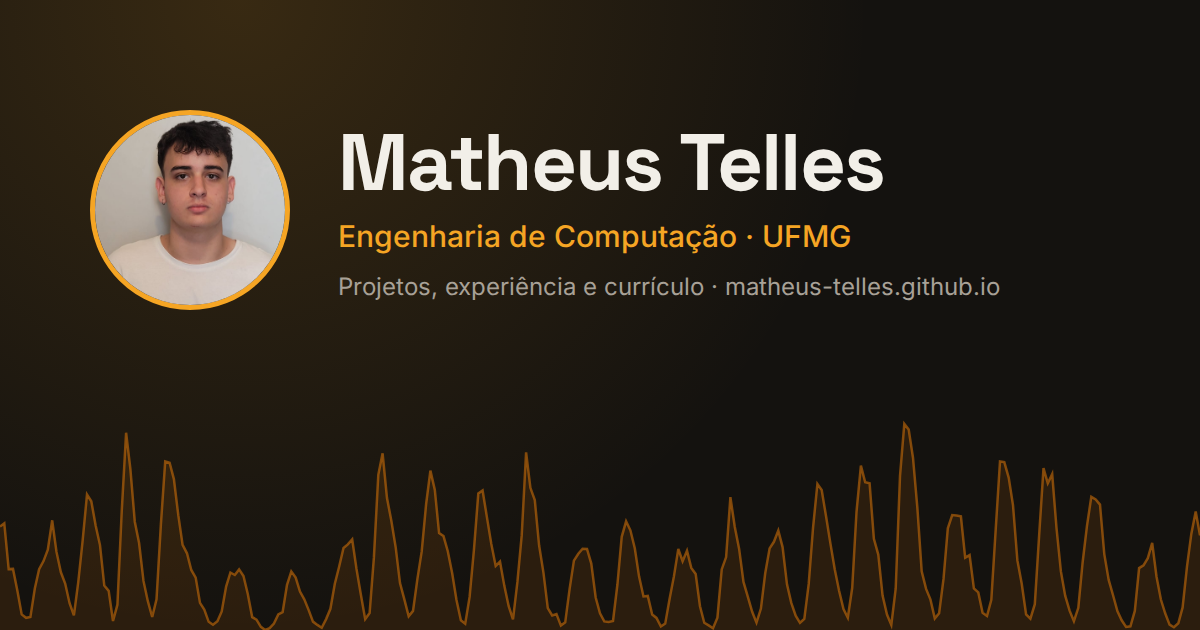
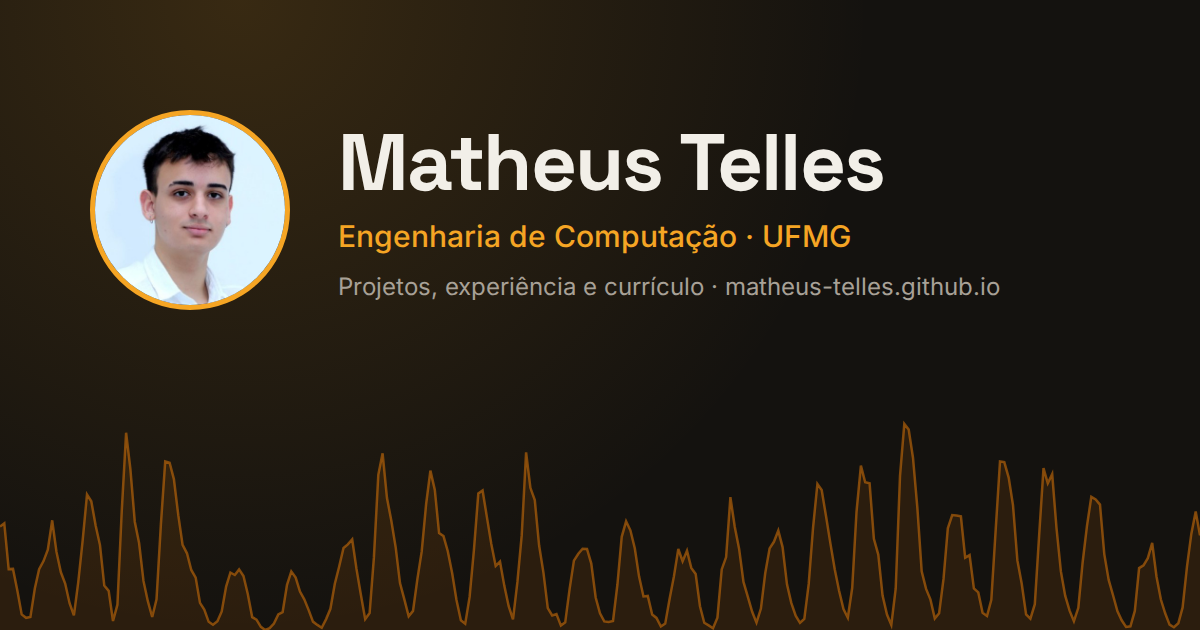
Troca a foto e reorganiza habilidades em áreas com evidências
- Foto do perfil do LinkedIn no topo e na imagem de prévia de link
- Tecnologias e Habilidades viram "O que eu faço": quatro áreas, cada uma
  com as tecnologias e onde foram usadas (projetos, HCF, Visão Intuitiva)
- C, Java e Unity numa linha "Também uso"

Changed region(s): [[0.0617, 0.181, 0.2467, 0.4825]]

diff --git a/index.html b/index.html
@@ -31,7 +31,7 @@
                <li><a href="#projetos" class="nav-link" data-i18n="nav_projetos">Projetos</a></li>
                <li><a href="#experiencia" class="nav-link" data-i18n="nav_experiencia">Experiência</a></li>
                <li><a href="#educacao" class="nav-link" data-i18n="nav_educacao">Educação</a></li>
-               <li><a href="#skills" class="nav-link" data-i18n="nav_tecnologias">Tecnologias</a></li>
+               <li><a href="#skills" class="nav-link" data-i18n="nav_tecnologias">O que faço</a></li>
                <li><a href="#contato" class="nav-link" data-i18n="nav_contato">Contato</a></li>
             </ul>
             <button class="idioma" id="trocaIdioma" type="button" lang="en" aria-label="Switch to English">EN</button>
@@ -91,7 +91,7 @@
             </div>
          </article>
 
-         <article class="project-card" data-techs="html css javascript prototipagem">
+         <article class="project-card" id="projeto-eng200" data-techs="html css javascript prototipagem">
             <a href="https://matheus-telles.github.io/eng200demo/" class="project-media" target="_blank" rel="noopener">
                <img src="assets/eng200.jpg" alt="Tela do protótipo Fila do RU mostrando a espera estimada em cada restaurante universitário" data-i18n-attr="alt:eng200_alt" loading="lazy" width="1100" height="620" />
             </a>
@@ -152,54 +152,59 @@
       </section>
 
       <section id="skills" class="secao reveal">
-         <h2><span class="num">04</span> <span data-i18n="tecnologias_titulo">Tecnologias</span></h2>
-         <p class="skills-dica" data-i18n="tecnologias_dica">As marcadas com ● aparecem nos projetos acima. Clique para ver onde.</p>
+         <h2><span class="num">04</span> <span data-i18n="areas_titulo">O que eu faço</span></h2>
+         <p class="skills-dica" data-i18n="tecnologias_dica">As tecnologias marcadas com <span class="marca">●</span> aparecem nos projetos acima. Clique para ver onde.</p>
 
-         <div class="tech-group">
-            <h3 class="rotulo" data-i18n="linguagens">Linguagens</h3>
-            <div class="chip-list">
-               <span class="tech-chip"><i class="devicon-c-plain colored"></i>C</span>
-               <span class="tech-chip"><i class="devicon-java-plain colored"></i>Java</span>
-               <button type="button" class="tech-chip" data-tech="javascript"><i class="devicon-javascript-plain colored"></i>JavaScript</button>
-               <button type="button" class="tech-chip" data-tech="html"><i class="devicon-html5-plain colored"></i>HTML</button>
-               <button type="button" class="tech-chip" data-tech="css"><i class="devicon-css3-plain colored"></i>CSS</button>
-               <button type="button" class="tech-chip" data-tech="python"><i class="devicon-python-plain colored"></i>Python</button>
-               <span class="tech-chip"><i class="devicon-php-plain colored"></i>PHP</span>
-            </div>
+         <div class="areas">
+            <article class="area">
+               <h3 data-i18n="area_dados">Dados e análise</h3>
+               <p class="area-prova" data-i18n="area_dados_prova">Testes t de Welch, qui-quadrado e Kolmogorov–Smirnov sobre mais de 270 anos de dados na <a href="#projeto-manchas">Análise de Ciclos Solares</a>.</p>
+               <div class="chip-list">
+                  <button type="button" class="tech-chip" data-tech="python"><i class="devicon-python-plain colored"></i>Python</button>
+                  <button type="button" class="tech-chip" data-tech="jupyter"><i class="devicon-jupyter-plain colored"></i>Jupyter</button>
+                  <button type="button" class="tech-chip" data-tech="matplotlib"><i class="devicon-matplotlib-plain colored"></i>Matplotlib</button>
+                  <button type="button" class="tech-chip" data-tech="scipy">SciPy</button>
+               </div>
+            </article>
+
+            <article class="area">
+               <h3 data-i18n="area_web">Web e prototipagem</h3>
+               <p class="area-prova" data-i18n="area_web_prova">Protótipo do <a href="#projeto-eng200">Fila do RU</a>, 1º lugar no ENG200, e back-end em PHP e Python/Django no estágio na Visão Intuitiva.</p>
+               <div class="chip-list">
+                  <button type="button" class="tech-chip" data-tech="html"><i class="devicon-html5-plain colored"></i>HTML</button>
+                  <button type="button" class="tech-chip" data-tech="css"><i class="devicon-css3-plain colored"></i>CSS</button>
+                  <button type="button" class="tech-chip" data-tech="javascript"><i class="devicon-javascript-plain colored"></i>JavaScript</button>
+                  <span class="tech-chip"><i class="devicon-php-plain colored"></i>PHP</span>
+                  <span class="tech-chip"><i class="devicon-django-plain colored"></i>Django</span>
+                  <span class="tech-chip"><i class="devicon-flask-original colored"></i>Flask</span>
+               </div>
+            </article>
+
+            <article class="area">
+               <h3 data-i18n="area_redes">Redes e infraestrutura</h3>
+               <p class="area-prova" data-i18n="area_redes_prova">Suporte técnico e análise de editais de infraestrutura de redes na HCF; certificação Cisco CCNAv7.</p>
+               <div class="chip-list">
+                  <span class="tech-chip"><i class="devicon-docker-plain colored"></i>Docker</span>
+                  <span class="tech-chip" data-i18n="vms">Máquinas virtuais</span>
+                  <span class="tech-chip" data-i18n="redes">Redes</span>
+               </div>
+            </article>
+
+            <article class="area">
+               <h3 data-i18n="area_ia">Automação com IA</h3>
+               <p class="area-prova" data-i18n="area_ia_prova">Automação de processos internos na HCF, como a triagem inicial de editais com o Claude.</p>
+               <div class="chip-list">
+                  <span class="tech-chip">Claude</span>
+                  <span class="tech-chip" data-i18n="automacao">Automação de processos</span>
+               </div>
+            </article>
          </div>
 
-         <div class="tech-group">
-            <h3 class="rotulo" data-i18n="frameworks">Frameworks, ferramentas &amp; IA</h3>
-            <div class="chip-list">
-               <button type="button" class="tech-chip" data-tech="jupyter"><i class="devicon-jupyter-plain colored"></i>Jupyter</button>
-               <button type="button" class="tech-chip" data-tech="matplotlib"><i class="devicon-matplotlib-plain colored"></i>Matplotlib</button>
-               <button type="button" class="tech-chip" data-tech="scipy">SciPy</button>
-               <span class="tech-chip"><i class="devicon-django-plain colored"></i>Django</span>
-               <span class="tech-chip"><i class="devicon-flask-original colored"></i>Flask</span>
-               <span class="tech-chip"><i class="devicon-unity-plain colored"></i>Unity</span>
-               <span class="tech-chip">Claude</span>
-            </div>
-         </div>
-
-         <div class="tech-group">
-            <h3 class="rotulo" data-i18n="infra">Infraestrutura</h3>
-            <div class="chip-list">
-               <span class="tech-chip"><i class="devicon-docker-plain colored"></i>Docker</span>
-               <span class="tech-chip" data-i18n="vms">Máquinas virtuais</span>
-            </div>
-         </div>
-
-         <h3 class="rotulo habilidades-titulo" data-i18n="habilidades">Habilidades</h3>
-         <ul class="habilidades">
-            <li data-i18n="hab_1">💻 Desenvolvimento web (front-end e back-end)</li>
-            <li data-i18n="hab_2">🧩 Estrutura de dados e algoritmos</li>
-            <li data-i18n="hab_3">🔗 Organização e conectividade de sistemas computacionais</li>
-            <li data-i18n="hab_4">🗄 Modelagem e manipulação de bancos de dados</li>
-            <li data-i18n="hab_5">🧪 Prototipagem de sistemas</li>
-            <li data-i18n="hab_6">🌐 Configuração e manutenção de redes</li>
-            <li data-i18n="hab_7">🔧 Automação de processos</li>
-            <li data-i18n="hab_8">📋 Análise de editais e licitações</li>
-         </ul>
+         <p class="tambem"><span class="rotulo" data-i18n="tambem">Também uso</span>
+            <span class="tech-chip"><i class="devicon-c-plain colored"></i>C</span>
+            <span class="tech-chip"><i class="devicon-java-plain colored"></i>Java</span>
+            <span class="tech-chip"><i class="devicon-unity-plain colored"></i>Unity</span>
+         </p>
       </section>
    </main>
 

diff --git a/assets/i18n.js b/assets/i18n.js
@@ -6,7 +6,7 @@ const TRADUCOES_EN = {
     nav_projetos: 'Projects',
     nav_experiencia: 'Experience',
     nav_educacao: 'Education',
-    nav_tecnologias: 'Tech',
+    nav_tecnologias: 'What I do',
     nav_contato: 'Contact',
     menu_abrir: 'Open menu',
     local: 'Belo Horizonte, Brazil',
@@ -45,21 +45,20 @@ const TRADUCOES_EN = {
     edu_2: '<strong>Technical Degree in Systems Development</strong> – UFMG Technical School (COLTEC) – 2022-2024',
     certificacoes: 'Certifications',
 
-    tecnologias_titulo: 'Tech',
-    tecnologias_dica: 'Items marked with ● appear in the projects above. Click one to see where.',
-    linguagens: 'Languages',
-    frameworks: 'Frameworks, tools &amp; AI',
-    infra: 'Infrastructure',
+    areas_titulo: 'What I do',
+    tecnologias_dica: 'Technologies marked with <span class="marca">●</span> appear in the projects above. Click one to see where.',
+    area_dados: 'Data and analysis',
+    area_dados_prova: 'Welch’s t-test, chi-square and Kolmogorov–Smirnov tests on over 270 years of data in the <a href="#projeto-manchas">Solar Cycle Analysis</a>.',
+    area_web: 'Web and prototyping',
+    area_web_prova: 'The <a href="#projeto-eng200">Fila do RU</a> prototype, 1st place in ENG200, and PHP and Python/Django back-end work during my internship at Visão Intuitiva.',
+    area_redes: 'Networks and infrastructure',
+    area_redes_prova: 'Technical support and analysis of network infrastructure tenders at HCF; Cisco CCNAv7 certification.',
+    area_ia: 'AI automation',
+    area_ia_prova: 'Internal process automation at HCF, such as first-pass tender screening with Claude.',
     vms: 'Virtual machines',
-    habilidades: 'Skills',
-    hab_1: '💻 Web development (front-end and back-end)',
-    hab_2: '🧩 Data structures and algorithms',
-    hab_3: '🔗 Computer systems organization and networking',
-    hab_4: '🗄 Database modeling and management',
-    hab_5: '🧪 Systems prototyping',
-    hab_6: '🌐 Network setup and maintenance',
-    hab_7: '🔧 Process automation',
-    hab_8: '📋 Public tender analysis',
+    redes: 'Networking',
+    automacao: 'Process automation',
+    tambem: 'Also',
     conversar: 'Let’s talk?',
 };
 

diff --git a/style.css b/style.css
@@ -534,10 +534,6 @@ main {
     margin: -1.4rem 0 1.8rem;
 }
 
-.tech-group {
-    margin-bottom: 1.6rem;
-}
-
 .chip-list {
     display: flex;
     flex-wrap: wrap;
@@ -562,7 +558,12 @@ main {
     font-size: 1.05rem;
 }
 
-.tech-chip .devicon-flask-original {
+.skills-dica .marca {
+    color: var(--accent-text);
+}
+
+.tech-chip .devicon-flask-original,
+.tech-chip .devicon-django-plain {
     color: var(--text);
 }
 
@@ -588,16 +589,54 @@ button.tech-chip[aria-pressed="true"] {
     color: var(--accent-text);
 }
 
-.habilidades-titulo {
-    margin-top: 2.4rem;
+.areas {
+    display: grid;
+    grid-template-columns: repeat(2, 1fr);
+    gap: 1rem;
 }
 
-.habilidades {
-    list-style: none;
-    display: grid;
-    grid-template-columns: repeat(auto-fill, minmax(280px, 1fr));
-    gap: 0.6rem 2rem;
+.area {
+    padding: 1.4rem 1.5rem 1.5rem;
+    background-color: var(--bg-alt);
+    border: 1px solid var(--border);
+    border-radius: 12px;
+}
+
+.area h3 {
+    font-size: 1.2rem;
+    margin-bottom: 0.5rem;
+}
+
+.area-prova {
     color: var(--text-dim);
+    font-size: 0.92rem;
+    margin-bottom: 1.1rem;
+}
+
+.area-prova a {
+    color: var(--accent-text);
+    text-decoration: none;
+    border-bottom: 1px solid rgba(245, 165, 36, 0.4);
+}
+
+.area-prova a:hover {
+    border-bottom-color: var(--accent-text);
+}
+
+.area .tech-chip {
+    background-color: var(--bg);
+}
+
+.tambem {
+    display: flex;
+    align-items: center;
+    flex-wrap: wrap;
+    gap: 0.5rem;
+    margin-top: 1.6rem;
+}
+
+.tambem .rotulo {
+    margin: 0 0.4rem 0 0;
 }
 
 /* Footer */
@@ -685,9 +724,14 @@ footer {
         order: 0;
     }
 
-    .duas-colunas {
+    .duas-colunas,
+    .areas {
         grid-template-columns: 1fr;
         gap: 1.5rem;
+    }
+
+    .areas {
+        gap: 1rem;
     }
 }
 
